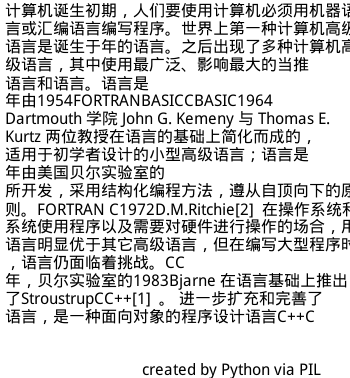
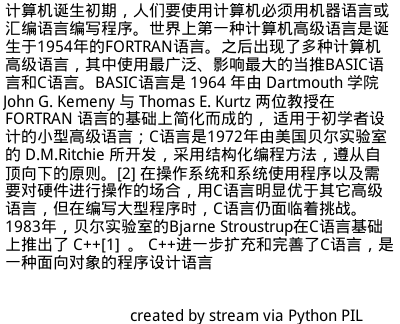
fixed bugs, become usable

diff --git a/convert_text_to_image/demo.py b/convert_text_to_image/demo.py
@@ -1,6 +1,6 @@
 # coding: utf-8
 # only support python2
-# TODO support Chinese...
+# author: stream
 #import uniout # support list output chinese, sudo pip install uniout
 import Image, ImageFont, ImageDraw
 import sys
@@ -9,9 +9,9 @@ sys.setdefaultencoding('utf-8')
 
 FONT = "/usr/share/fonts/truetype/droid/DroidSansFallbackFull.ttf"
 
-# print "make sure the file your want to convert in the same path."
-# filename = raw_input("input the filename you want to convert: ")
-filename = 'chinese.txt'
+print "notice: make sure the file your want to convert in the same path."
+filename = raw_input("input the filename you want to convert: ")
+
 with open(filename) as f:
     lines = f.readlines()
 
@@ -20,16 +20,13 @@ for line in lines:
     uni_line = unicode(line,"utf-8")
     inputfile += uni_line
 
-print inputfile
-
 font = ImageFont.truetype(FONT, 16)
 
-# output = filename.split('.')[0] + '.png'
-output = 'chinese.png'
+output = filename.split('.')[0] + '.png'
 
 def text2png(inputfile, output, fontpath=None,
              fontsize=16, color='#000', bgcolor='#FFF',
-             leftpadding=5, rightpadding=5, out_put_width=350):
+             leftpadding=5, rightpadding=5, out_put_width=400):
     # set up fonts
     if fontpath == None:
         font = ImageFont.load_default()
@@ -37,7 +34,7 @@ def text2png(inputfile, output, fontpath=None,
         font = ImageFont.truetype(FONT, fontsize)
 
     # set up footnotes
-    foot_note = 'created by Python via PIL'
+    foot_note = 'created by stream via Python PIL'
     fontfoot_note = ImageFont.truetype(FONT, 18)
     foot_note_width = fontfoot_note.getsize(foot_note)[0]
     foot_note_height= fontfoot_note.getsize(foot_note)[1]
@@ -49,9 +46,11 @@ def text2png(inputfile, output, fontpath=None,
     text = inputfile
 
     lines = process_text(text, fixed_size)
-    for line in lines:
-        # print  str(line).decode('string_escape')
-        print line
+
+    # for line in lines:
+    #     # print  str(line).decode('string_escape')
+    #     print i,'line is: ',line
+    #     i += 1
 
     line_height = font.getsize(text)[1]
     img_height = line_height * (len(lines) + 3)
@@ -67,6 +66,7 @@ def text2png(inputfile, output, fontpath=None,
     draw.text( (img_width - foot_note_width, img_height - foot_note_height),
                foot_note,color, font)
     img.save(output)
+    print "Mission Complete..."
 
 
 def process_text(text, fixed_size):
@@ -75,12 +75,10 @@ def process_text(text, fixed_size):
     lines = []
     line = u""
     word = u""
+    chinese_char_padding = font.getsize('贝')[0]
+
     for char in text:
-        print char
-        print 'line is:', line
-        print 'lines is:', lines
         num = ord(char.decode('utf-8'))
-        print num
         if num < 128:
             lines, line, word, in_word = parse_ascii(char,
                                                      fixed_size,
@@ -89,17 +87,21 @@ def process_text(text, fixed_size):
                                                      word,
                                                      in_word)
         else:
-            lines, line = parse_chinese(char, fixed_size, lines, line)
+            # if set in_word False, must add word to line and reset word
+            in_word = False
+            line += word
+            word = u""
+            lines, line = parse_chinese(char,
+                                        fixed_size,
+                                        lines,
+                                        line,
+                                        chinese_char_padding)
 
     return lines
 
-def parse_chinese(char, fixed_size, lines, line):
-    if font.getsize(line)[0] <= fixed_size:
-        if char != '\n':
-            line += char
-        else:
-            lines.append(line)
-            line = u""
+def parse_chinese(char, fixed_size, lines, line, chinese_char_padding):
+    if font.getsize(line)[0] <= fixed_size - chinese_char_padding/2:
+        line += char
     else:
         lines.append(line)
         line = char
